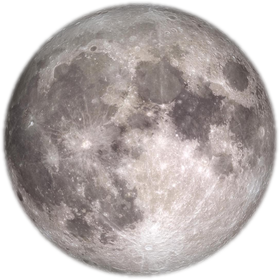
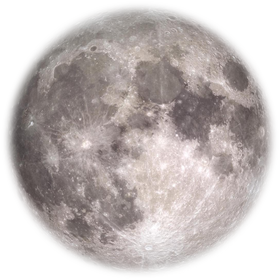
月の黒リムを除去し、午前0時の青白ロゴフラッシュを追加
- moon.png: マスクを内側4%＋blur4のフェードで暗いリムごと除去（暗画素ゼロ検証）
- 月グロー強化、logoFlashに0時の青白フラッシュ（brightness 2.5/scale 1.07）を追加
- 0%/100%キーフレームを同値にしてループ連続性を維持
- キャッシュバスター v=20260726f、moon.png?v=4

Changed region(s): [[0.0, 0.0, 1.0, 1.0]]

diff --git a/style.css b/style.css
@@ -862,10 +862,10 @@ h1, h2, h3 {
   height: 140px;
   margin-left: -70px;
   border-radius: 50%;
-  background: url('assets/moon.png?v=3') center / cover no-repeat;
+  background: url('assets/moon.png?v=4') center / cover no-repeat;
   box-shadow:
-    0 0 22px 6px rgba(215, 228, 255, 0.40),
-    0 0 70px 26px rgba(170, 195, 255, 0.18);
+    0 0 26px 8px rgba(215, 228, 255, 0.55),
+    0 0 80px 30px rgba(170, 195, 255, 0.25);
   left: 50%;
   bottom: 58%;
   opacity: 0;
@@ -920,11 +920,17 @@ h1, h2, h3 {
   animation-delay: var(--sky-delay, 0s);
 }
 @keyframes logoFlash {
-  0%, 46.5% { filter: none; transform: scale(1); }
+  /* 午前0時：月と重なって青白くフラッシュ（0%/100%はループ連続のため同値） */
+  0%        { filter: brightness(2.1) drop-shadow(0 0 34px rgba(214, 228, 255, 0.95)) drop-shadow(0 0 90px rgba(190, 210, 255, 0.75)); transform: scale(1.05); }
+  1.5%      { filter: brightness(2.5) drop-shadow(0 0 40px rgba(214, 228, 255, 1)) drop-shadow(0 0 110px rgba(190, 210, 255, 0.85)); transform: scale(1.07); }
+  3.5%, 46.5% { filter: none; transform: scale(1); }
+  /* 正午：太陽と重なって金色にフラッシュ */
   48.5%     { filter: brightness(2.6) drop-shadow(0 0 40px rgba(255, 252, 230, 1)) drop-shadow(0 0 110px rgba(255, 248, 210, 0.9)); transform: scale(1.07); }
   50%       { filter: brightness(1.9) drop-shadow(0 0 30px rgba(255, 252, 230, 0.95)) drop-shadow(0 0 80px rgba(255, 248, 210, 0.7)); transform: scale(1.04); }
   51.5%     { filter: brightness(2.6) drop-shadow(0 0 40px rgba(255, 252, 230, 1)) drop-shadow(0 0 110px rgba(255, 248, 210, 0.9)); transform: scale(1.07); }
-  53.5%, 100% { filter: none; transform: scale(1); }
+  53.5%, 96.5% { filter: none; transform: scale(1); }
+  98.5%     { filter: brightness(2.5) drop-shadow(0 0 40px rgba(214, 228, 255, 1)) drop-shadow(0 0 110px rgba(190, 210, 255, 0.85)); transform: scale(1.07); }
+  100%      { filter: brightness(2.1) drop-shadow(0 0 34px rgba(214, 228, 255, 0.95)) drop-shadow(0 0 90px rgba(190, 210, 255, 0.75)); transform: scale(1.05); }
 }
 @keyframes starsCycle {
   0%, 20%   { opacity: 0.9; }

diff --git a/index.html b/index.html
@@ -13,7 +13,7 @@
 <link rel="preconnect" href="https://fonts.googleapis.com">
 <link rel="preconnect" href="https://fonts.gstatic.com" crossorigin>
 <link href="https://fonts.googleapis.com/css2?family=Zen+Maru+Gothic:wght@400;500;700;900&display=swap" rel="stylesheet">
-<link rel="stylesheet" href="style.css?v=20260726e">
+<link rel="stylesheet" href="style.css?v=20260726f">
 </head>
 <body>
 
@@ -243,6 +243,6 @@
   </div>
 </footer>
 
-<script src="script.js?v=20260726e"></script>
+<script src="script.js?v=20260726f"></script>
 </body>
 </html>
